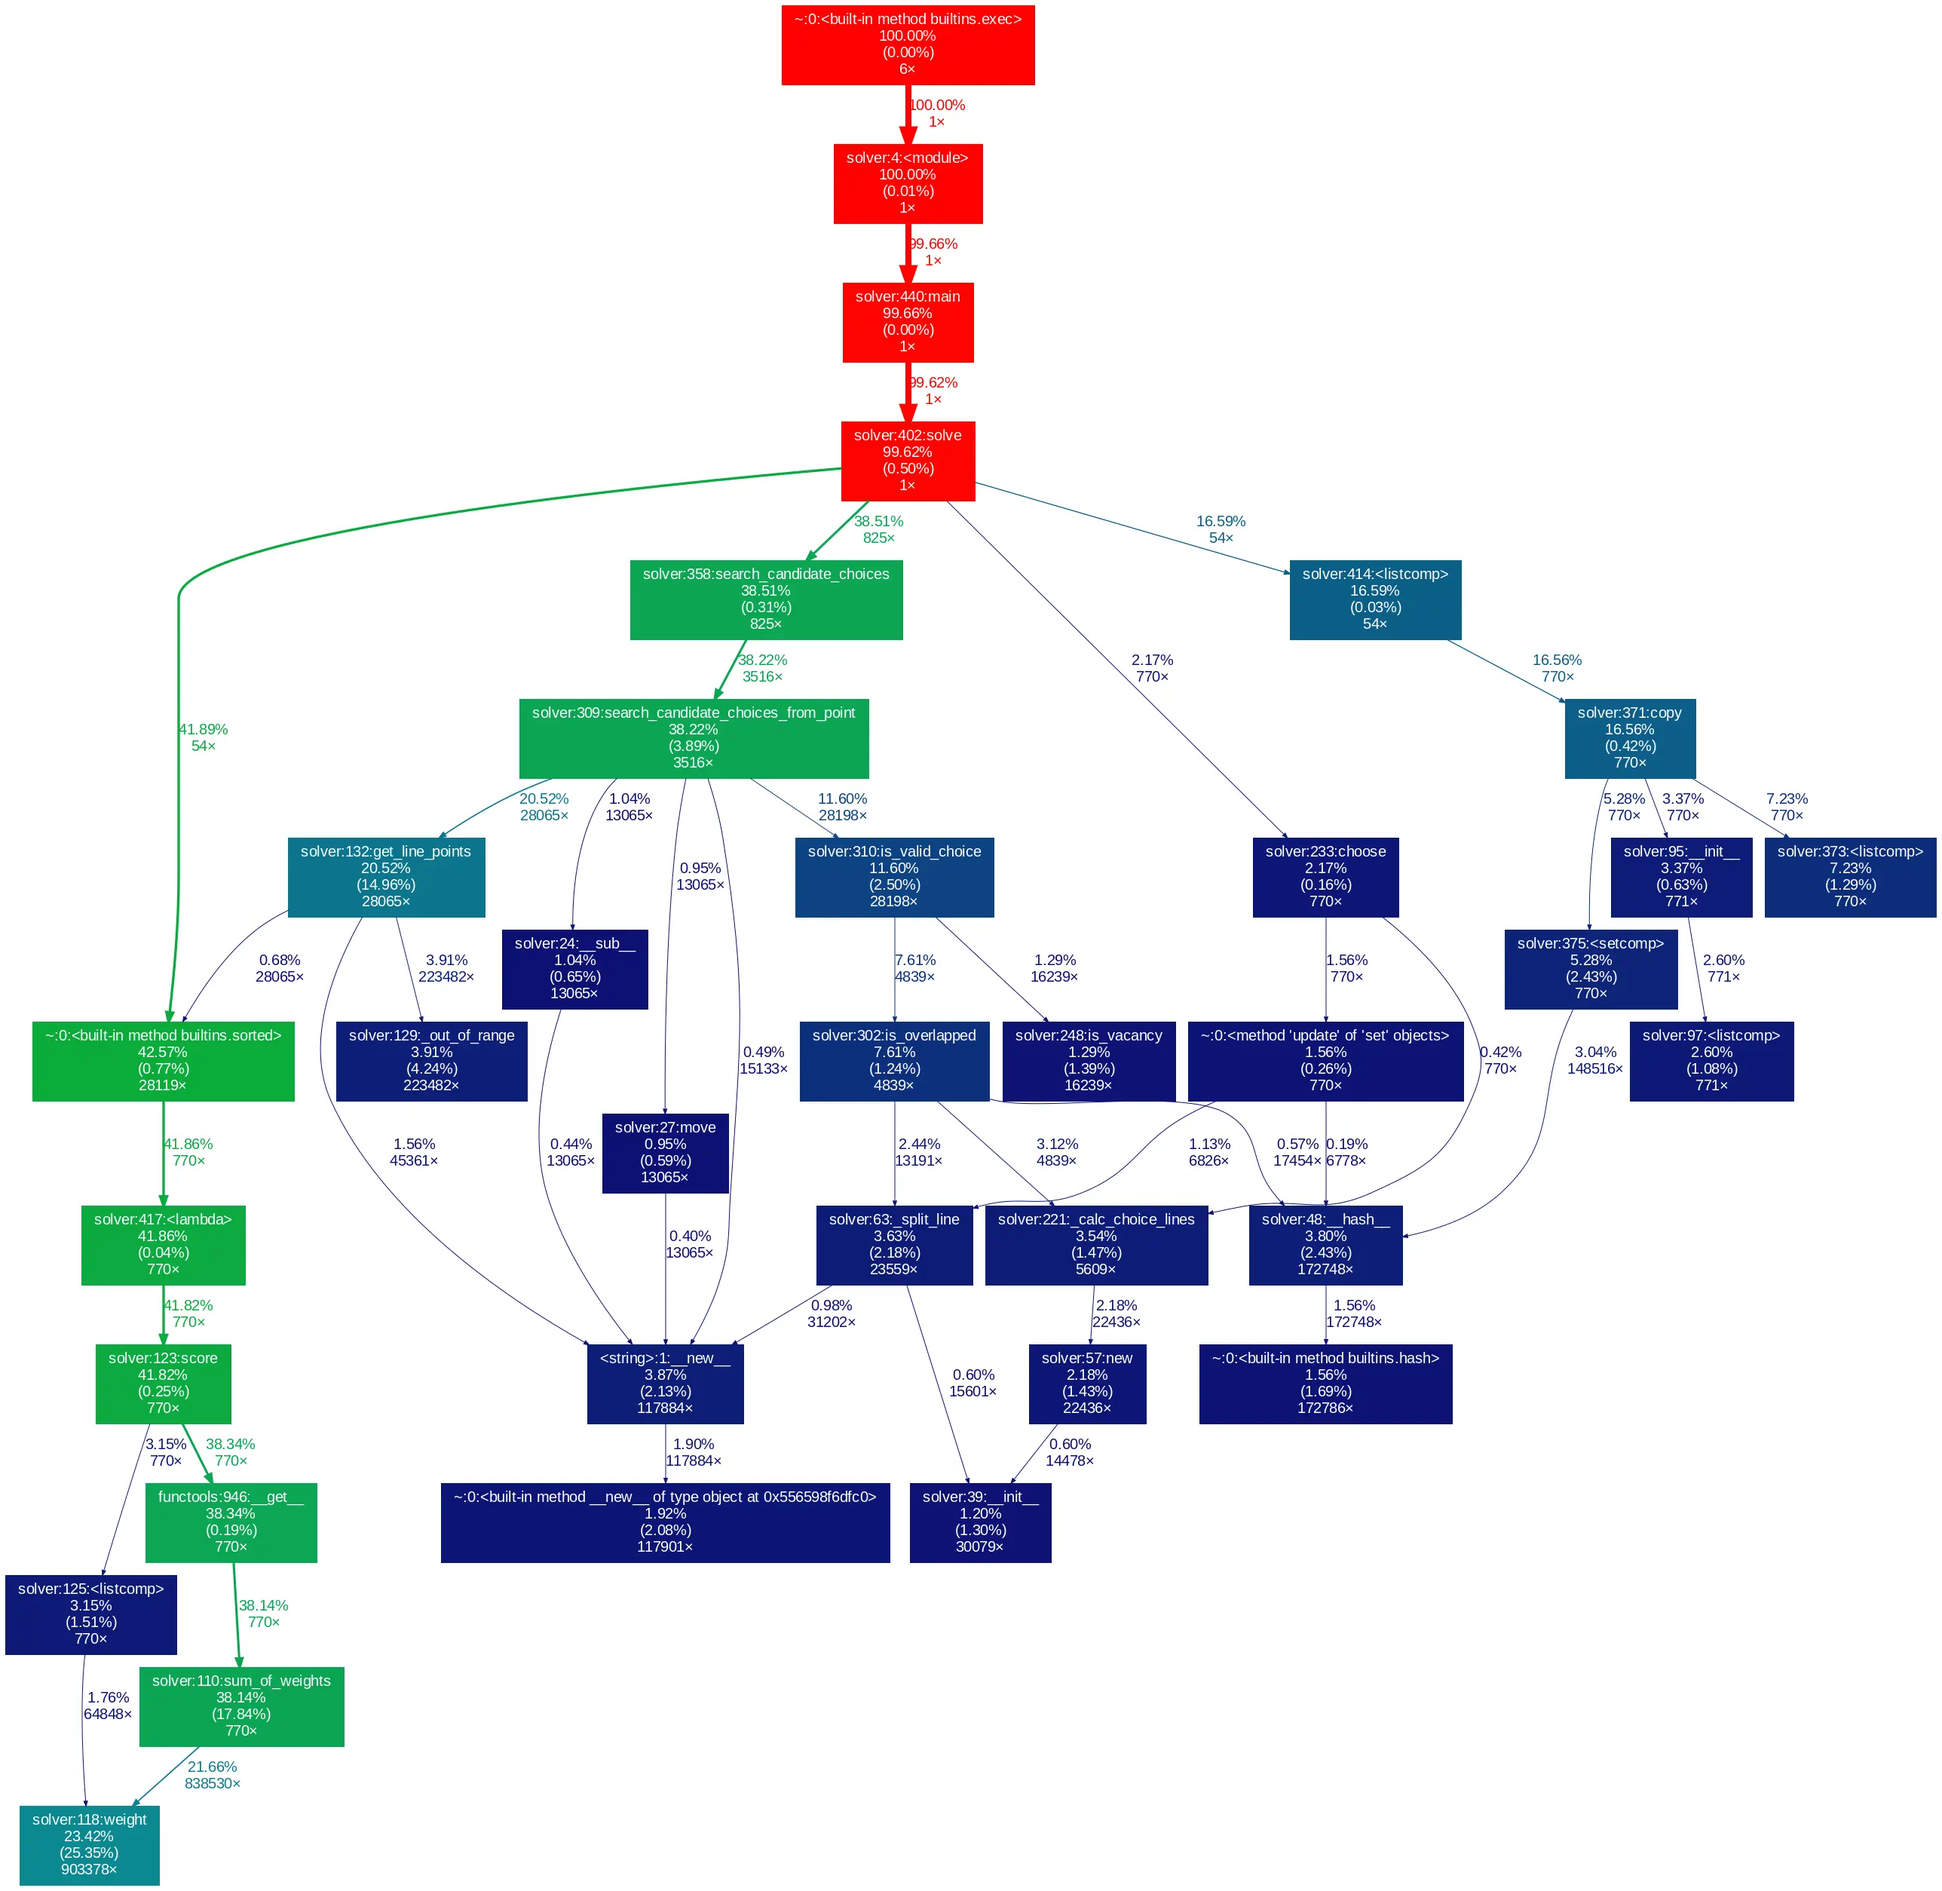
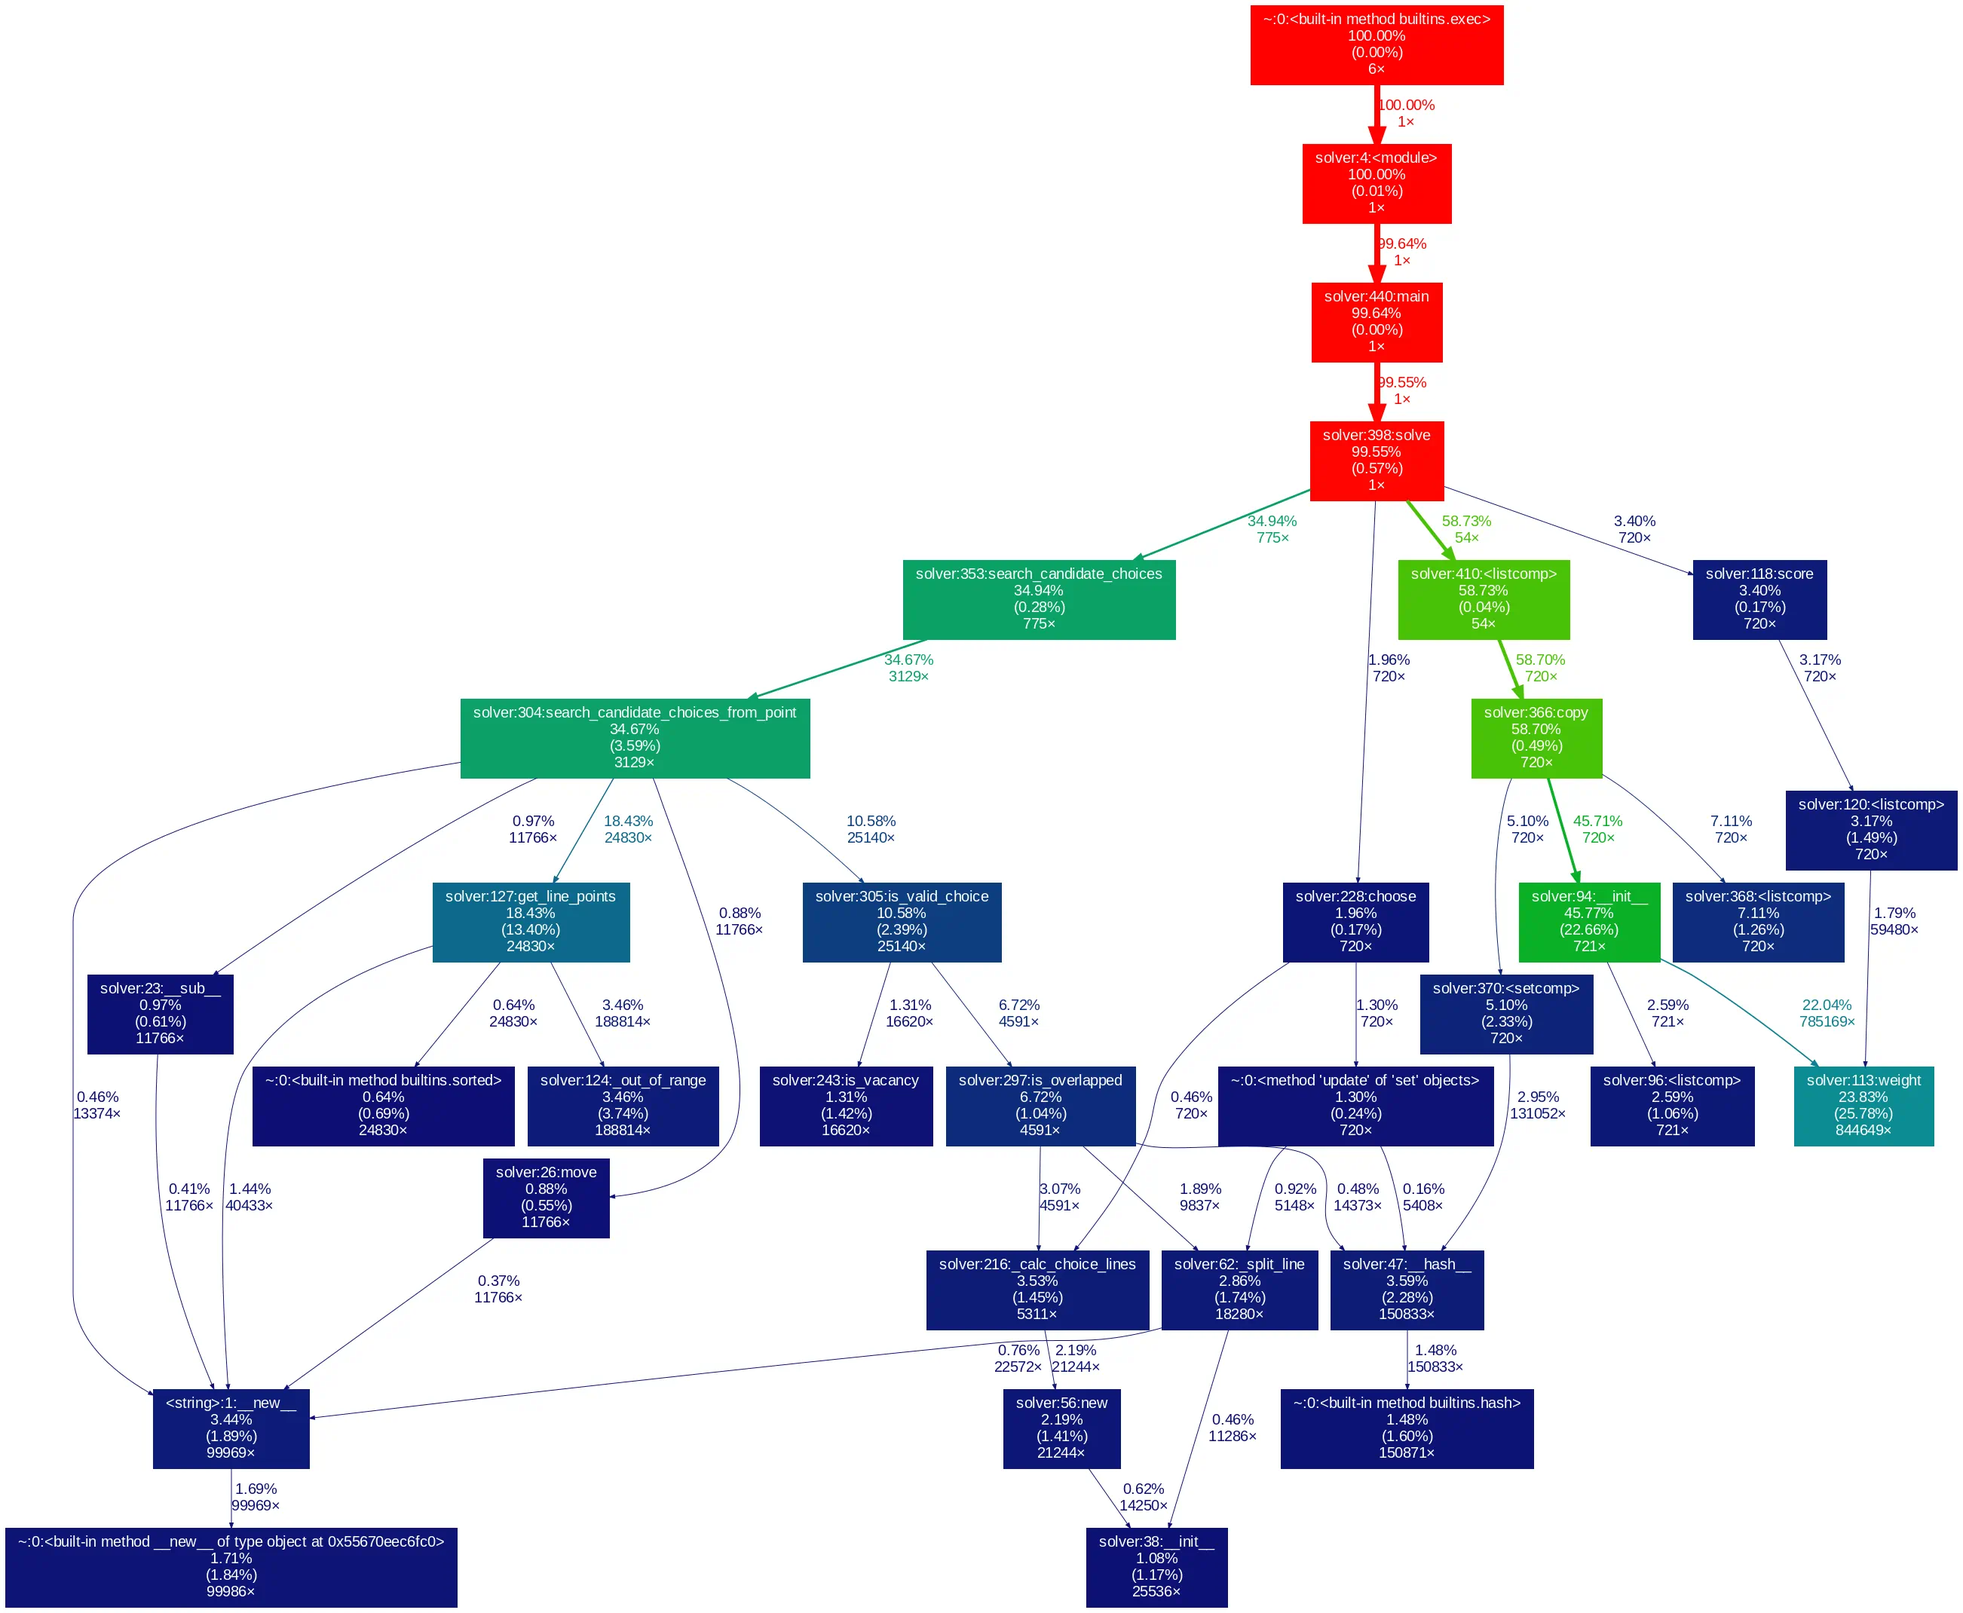
remove unused calculation of board-weight

Changed region(s): [[0.0, 0.0, 1.0, 1.0], [0.8075, 0.3084, 0.8385, 0.3393], [0.0932, 0.3701, 0.1242, 0.4009]]

diff --git a/solver.py b/solver.py
@@ -3,7 +3,6 @@
 
 import random
 from collections import namedtuple
-from functools import cached_property
 from sys import stderr
 from typing import Iterator, List, Tuple, Set, Literal, TypeVar, Union
 
@@ -102,18 +101,14 @@ class Board:
         self._points = {p for p in points}
         self._choices: List[Choice] = []
         self._lines: Set[Line] = set()
+        self._board_weight = 0
+        for x in range(self.size):
+            for y in range(self.size):
+                self._board_weight += self.weight(self.size, x, y)
 
     @property
     def points(self) -> Set[Coord]:
         return self._points
-
-    @cached_property
-    def sum_of_weights(self) -> float:
-        s = 0
-        for x in range(self.size):
-            for y in range(self.size):
-                s += self.weight(self.size, x, y)
-        return s
 
     @staticmethod
     def weight(size: int, x: int, y: int) -> float:
@@ -123,7 +118,7 @@ class Board:
     @property
     def score(self) -> int:
         sum_of_w = sum([self.weight(self.size, p.x, p.y) for p in self.points])
-        score = ((10 ** 6) * (self.size ** 2) * sum_of_w) / (self._number_of_initial_points * self.sum_of_weights)
+        score = ((10 ** 6) * (self.size ** 2) * sum_of_w) / (self._number_of_initial_points * self._board_weight)
         return round(score)
 
     def _out_of_range(self, x, y):
@@ -374,6 +369,7 @@ class Board:
         b._choices = [choice for choice in self._choices]
         b._lines = {line for line in self._lines}
         b._points = {p for p in self._points}
+        b._board_weight = self._board_weight
         return b
 
     def debug(self, field=True, choices=True, points=True):
@@ -412,9 +408,13 @@ def solve(board: Board) -> Board:
         if num_of_can == 0:
             break
         bs = [board.copy() for _ in range(num_of_can)]
+        max_score = 0
         for ci in range(num_of_can):
-            bs[ci].choose(*candidates[ci])
-        board = sorted(bs, key=lambda b: b.score, reverse=True)[0]
+            b = bs[ci]
+            c = candidates[ci]
+            b.choose(*c)
+            if b.score > max_score:
+                board = b
     return board
 
 
